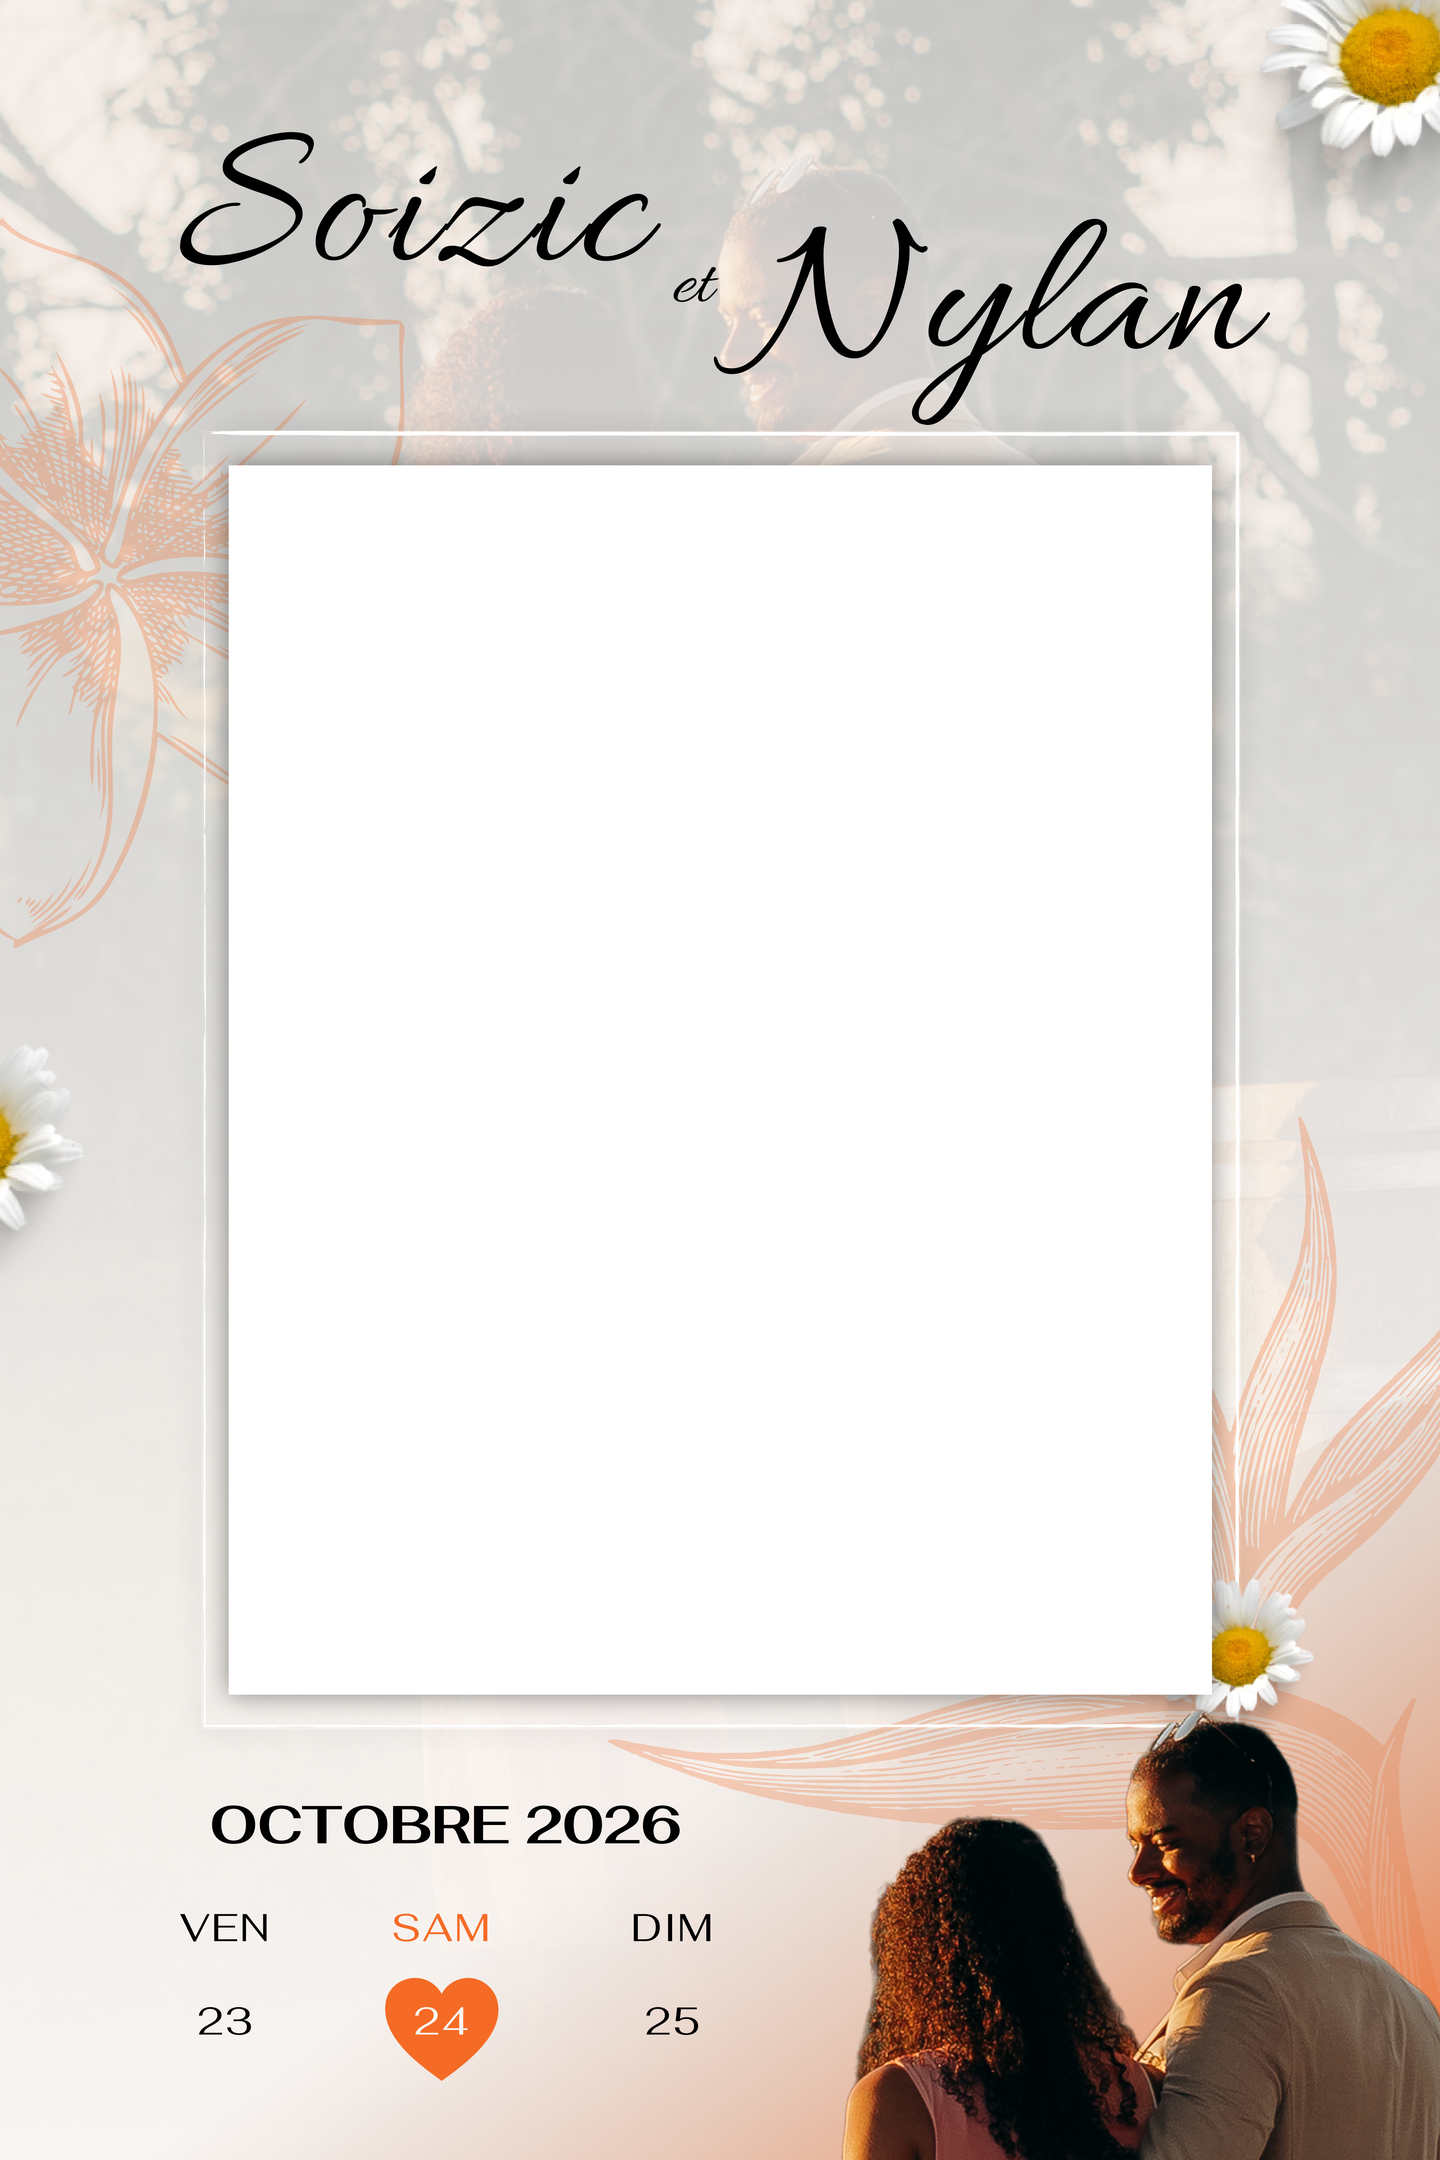
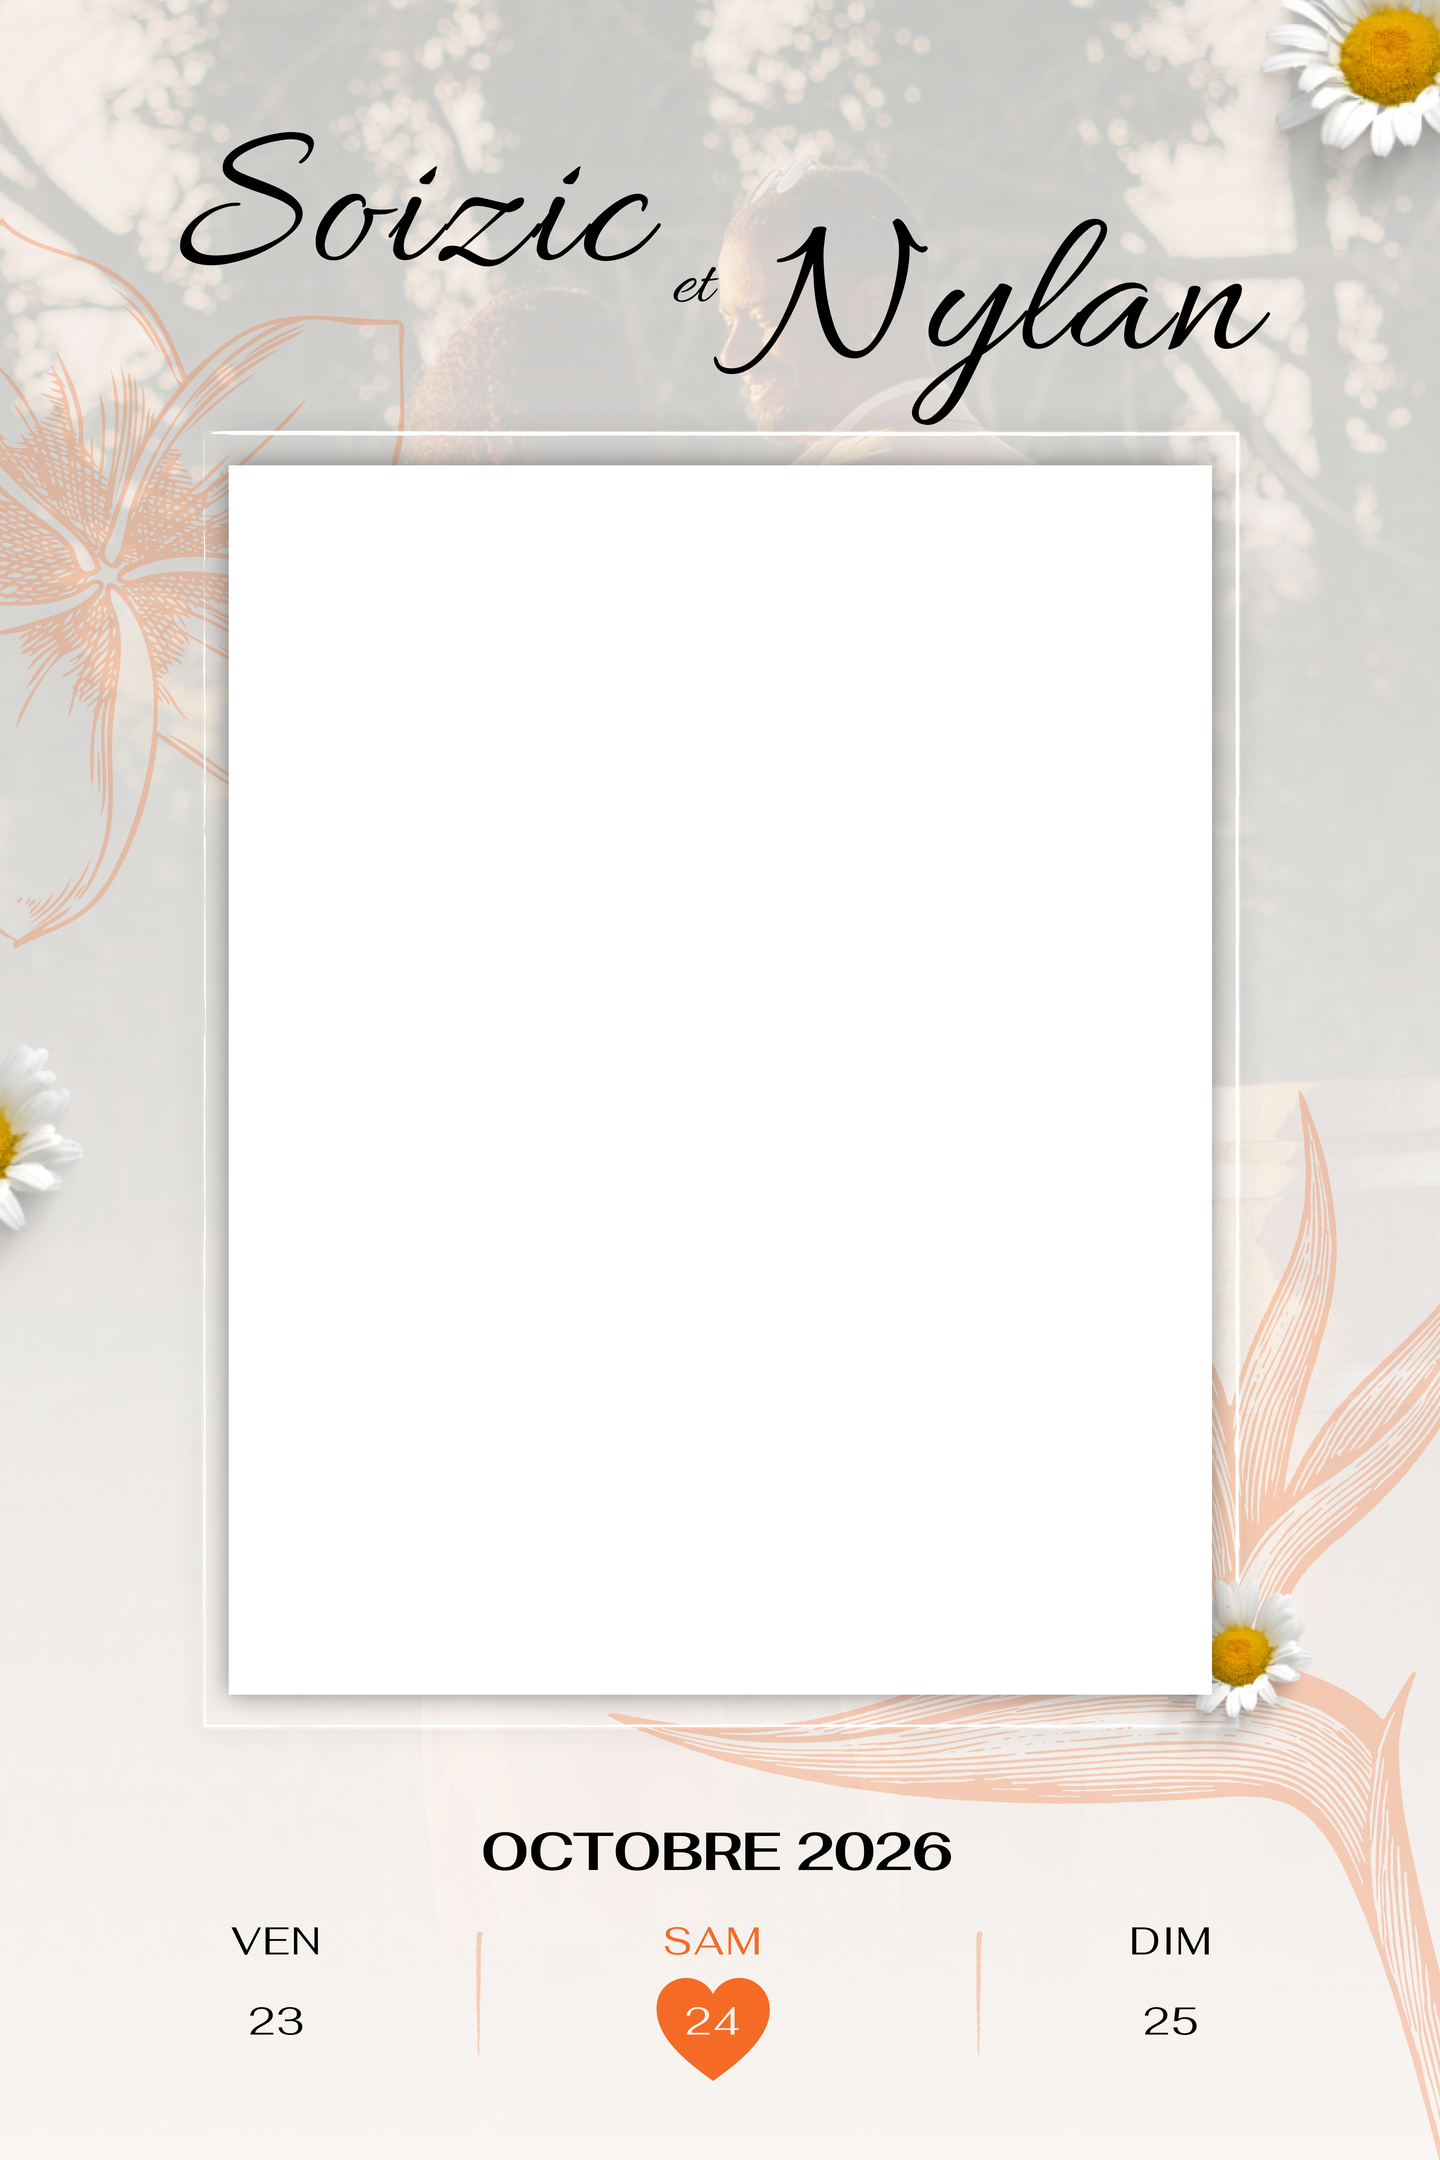
Galerie : photo en direct ; Soizic & Nylan : nouveau cadre du photobooth
- Galerie : bouton « Photo en direct » (si le navigateur donne accès à
  la caméra). Aperçu en direct, caméra arrière par défaut, bascule
  selfie, déclencheur, reprendre ou garder. Chaque cliché gardé rejoint
  les fichiers du formulaire : envoi, poids et modération inchangés.
  La caméra est coupée à la fermeture.
- Nouveau cadre du photobooth (fenêtre rendue transparente). Son nom de
  fichier porte une empreinte : un cadre mis à jour n'est jamais servi
  depuis le cache.

Changed region(s): [[0.125, 0.5273, 1.0, 1.0], [0.1562, 0.9306, 0.1875, 0.9616]]

diff --git a/public/css/invite.css b/public/css/invite.css
@@ -1271,3 +1271,40 @@ body:has(.puzzle) input { -webkit-user-select: text; user-select: text; }
 .modale-actions .bouton { width: 100%; justify-content: center; }
 @media (prefers-reduced-motion: reduce) { .modale[open] { animation: none; } }
 
+/* --- Galerie : photo en direct ---------------------------------------- */
+
+.camera-ouvrir { margin-top: .75rem; }
+.modale.camera { width: min(96vw, 520px); padding: .8rem .8rem 1rem; }
+.camera-scene {
+    position: relative; overflow: hidden;
+    aspect-ratio: 3 / 4; max-height: 68svh; margin-inline: auto;
+    border-radius: calc(var(--r-carte) - 4px);
+    background: #111;
+}
+.camera-scene video, .camera-scene img { width: 100%; height: 100%; object-fit: cover; display: block; }
+.camera-scene video.miroir { transform: scaleX(-1); }
+.camera-flash { position: absolute; inset: 0; background: #fff; opacity: 0; pointer-events: none; transition: opacity .35s ease; }
+.camera-flash.actif { opacity: 1; transition: none; }
+.camera-compte {
+    position: absolute; top: .7rem; left: .7rem;
+    padding: .3rem .7rem; border-radius: 999px;
+    background: rgb(0 0 0 / .55); color: #fff; font-size: .78rem; font-weight: 600;
+}
+.camera-message { min-height: 1.2rem; margin: .6rem 0 0; font-size: .9rem; }
+.camera-commandes { display: flex; align-items: center; justify-content: space-evenly; gap: .6rem; margin-top: .4rem; }
+.camera-commandes[hidden] { display: none; }
+.camera-commandes .bouton { flex: 1; justify-content: center; }
+.camera-declencheur {
+    width: 72px; height: 72px; border-radius: 50%;
+    border: 4px solid var(--c-accent); background: var(--c-accent);
+    box-shadow: inset 0 0 0 4px var(--c-carte);
+    transition: transform .12s ease;
+}
+.camera-declencheur:active { transform: scale(.92); }
+.camera-rond {
+    display: grid; place-items: center;
+    width: 48px; height: 48px; border-radius: 50%;
+    border: 1px solid var(--c-bord); background: var(--c-voile); color: var(--c-sur-carte);
+    font-size: 1.1rem;
+}
+

diff --git a/resources/views/pages/galerie.blade.php b/resources/views/pages/galerie.blade.php
@@ -58,6 +58,11 @@
                 <strong>Choisir ou prendre des photos</strong>
                 <small>Jusqu’à 20 à la fois · {{ $poidsMax }} Mo par photo</small>
             </label>
+            {{-- Prise de vue en direct : affichée seulement si le navigateur
+                 donne accès à la caméra. --}}
+            <button type="button" class="bouton bouton--contour bouton--large camera-ouvrir" id="camera-ouvrir" hidden>
+                <i class="fa-solid fa-camera-retro" aria-hidden="true"></i> Photo en direct
+            </button>
             <div class="apercus" id="apercus"></div>
 
             @if ($errors->any())
@@ -113,6 +118,33 @@
     </div>
 </dialog>
 
+<dialog class="modale camera" id="camera" aria-label="Prendre une photo">
+    <div class="camera-scene">
+        <video id="camera-flux" autoplay playsinline muted></video>
+        <img id="camera-cliche" alt="Votre photo" hidden>
+        <div class="camera-flash" id="camera-flash"></div>
+        <span class="camera-compte" id="camera-compte" hidden></span>
+    </div>
+    <p class="camera-message" id="camera-message"></p>
+    <div class="camera-commandes" data-etape="direct">
+        <button type="button" class="camera-rond" data-camera="retourner" aria-label="Changer de caméra">
+            <i class="fa-solid fa-camera-rotate" aria-hidden="true"></i>
+        </button>
+        <button type="button" class="camera-declencheur" data-camera="declencher" aria-label="Prendre la photo"></button>
+        <button type="button" class="camera-rond" data-camera="fermer" aria-label="Fermer">
+            <i class="fa-solid fa-xmark" aria-hidden="true"></i>
+        </button>
+    </div>
+    <div class="camera-commandes" data-etape="cliche" hidden>
+        <button type="button" class="bouton bouton--contour" data-camera="reprendre">
+            <i class="fa-solid fa-rotate-left" aria-hidden="true"></i> Reprendre
+        </button>
+        <button type="button" class="bouton bouton--plein" data-camera="garder">
+            <i class="fa-solid fa-check" aria-hidden="true"></i> Garder
+        </button>
+    </div>
+</dialog>
+
 @push('scripts')
 <script>
 (() => {
@@ -130,6 +162,100 @@
         const n = champ.files.length;
         bouton.innerHTML = `<i class="fa-solid fa-paper-plane" aria-hidden="true"></i> Envoyer ${n > 1 ? n + ' photos' : 'la photo'}`;
     });
+
+    // ── Photo en direct ───────────────────────────────────────────────
+    // Chaque cliché gardé rejoint les fichiers du formulaire : l'envoi,
+    // le poids maximal et la modération restent ceux de la galerie.
+    const ouvrir  = document.getElementById('camera-ouvrir');
+    const camera  = document.getElementById('camera');
+    const flux    = document.getElementById('camera-flux');
+    const cliche  = document.getElementById('camera-cliche');
+    const message = document.getElementById('camera-message');
+    const compte  = document.getElementById('camera-compte');
+    const etapes  = camera?.querySelectorAll('[data-etape]') ?? [];
+    let flot = null, cote = 'environment', blob = null, gardees = 0;
+
+    if (ouvrir && camera?.showModal && navigator.mediaDevices?.getUserMedia && window.DataTransfer) {
+        ouvrir.hidden = false;
+    }
+
+    const etape = (nom) => etapes.forEach((e) => e.hidden = e.dataset.etape !== nom);
+
+    const couper = () => { flot?.getTracks().forEach((t) => t.stop()); flot = null; };
+
+    async function demarrer() {
+        couper();
+        message.textContent = '';
+        try {
+            flot = await navigator.mediaDevices.getUserMedia({ video: { facingMode: cote, width: { ideal: 1920 } }, audio: false });
+            flux.srcObject = flot;
+            // Le selfie en miroir, comme dans un miroir ; la vue arrière telle quelle.
+            flux.classList.toggle('miroir', cote === 'user');
+        } catch (e) {
+            message.textContent = 'Autorisez l’accès à la caméra pour prendre une photo.';
+        }
+    }
+
+    function montrer(enDirect) {
+        flux.hidden = !enDirect;
+        cliche.hidden = enDirect;
+        etape(enDirect ? 'direct' : 'cliche');
+    }
+
+    function declencher() {
+        if (!flux.videoWidth) return;
+        const c = document.createElement('canvas');
+        c.width = flux.videoWidth;
+        c.height = flux.videoHeight;
+        const ctx = c.getContext('2d');
+        if (cote === 'user') { ctx.translate(c.width, 0); ctx.scale(-1, 1); }
+        ctx.drawImage(flux, 0, 0);
+
+        const flash = document.getElementById('camera-flash');
+        flash.classList.add('actif');
+        setTimeout(() => flash.classList.remove('actif'), 60);
+
+        c.toBlob((b) => {
+            blob = b;
+            cliche.src = URL.createObjectURL(b);
+            montrer(false);
+        }, 'image/jpeg', 0.9);
+    }
+
+    function garder() {
+        if (!blob) return;
+        const dt = new DataTransfer();
+        [...champ.files].forEach((f) => dt.items.add(f));
+        dt.items.add(new File([blob], `photo-${Date.now()}.jpg`, { type: 'image/jpeg' }));
+        champ.files = dt.files;
+        champ.dispatchEvent(new Event('change'));
+
+        gardees++;
+        compte.textContent = `${gardees} photo${gardees > 1 ? 's' : ''} gardée${gardees > 1 ? 's' : ''}`;
+        compte.hidden = false;
+        blob = null;
+        montrer(true);
+    }
+
+    ouvrir?.addEventListener('click', () => {
+        gardees = 0;
+        compte.hidden = true;
+        montrer(true);
+        camera.showModal();
+        demarrer();
+    });
+
+    camera?.addEventListener('click', (e) => {
+        const action = e.target.closest('[data-camera]')?.dataset.camera;
+        if (action === 'declencher') declencher();
+        if (action === 'reprendre') { blob = null; montrer(true); }
+        if (action === 'garder') garder();
+        if (action === 'retourner') { cote = cote === 'user' ? 'environment' : 'user'; demarrer(); }
+        if (action === 'fermer') camera.close();
+    });
+
+    // Fermer la fenêtre, par le bouton ou par Échap, coupe la caméra.
+    camera?.addEventListener('close', couper);
 
     document.getElementById('envoi')?.addEventListener('submit', () => {
         bouton.disabled = true;

diff --git a/database/seeders/MariageSoizicNylanSeeder.php b/database/seeders/MariageSoizicNylanSeeder.php
@@ -318,7 +318,6 @@ Ils se diront le oui le plus tendre et plus doux.",
     private function poserCadre(Event $event): void
     {
         $source = public_path(self::DOSSIER . '/cadre-photobooth.png');
-        $chemin = "evenements/{$event->id}/photobooth/cadre-soizic-nylan.png";
 
         if (! is_file($source)) {
             $this->command?->warn('  Cadre introuvable : ' . $source);
@@ -326,8 +325,17 @@ Ils se diront le oui le plus tendre et plus doux.",
             return;
         }
 
+        // L'empreinte dans le nom : un cadre mis à jour change d'adresse, et
+        // aucun téléphone ne garde l'ancien en cache.
+        $chemin = "evenements/{$event->id}/photobooth/cadre-soizic-nylan-" . substr(md5_file($source), 0, 8) . '.png';
+        $ancien = $event->reglage('photobooth', 'cadre');
+
         Storage::disk('public')->put($chemin, file_get_contents($source));
         $event->ecrireReglages('photobooth', ['cadre' => $chemin]);
+
+        if ($ancien && $ancien !== $chemin && str_contains($ancien, '/cadre-soizic-nylan')) {
+            Storage::disk('public')->delete($ancien);
+        }
 
         $this->command?->info('  Cadre du photobooth posé.');
     }
